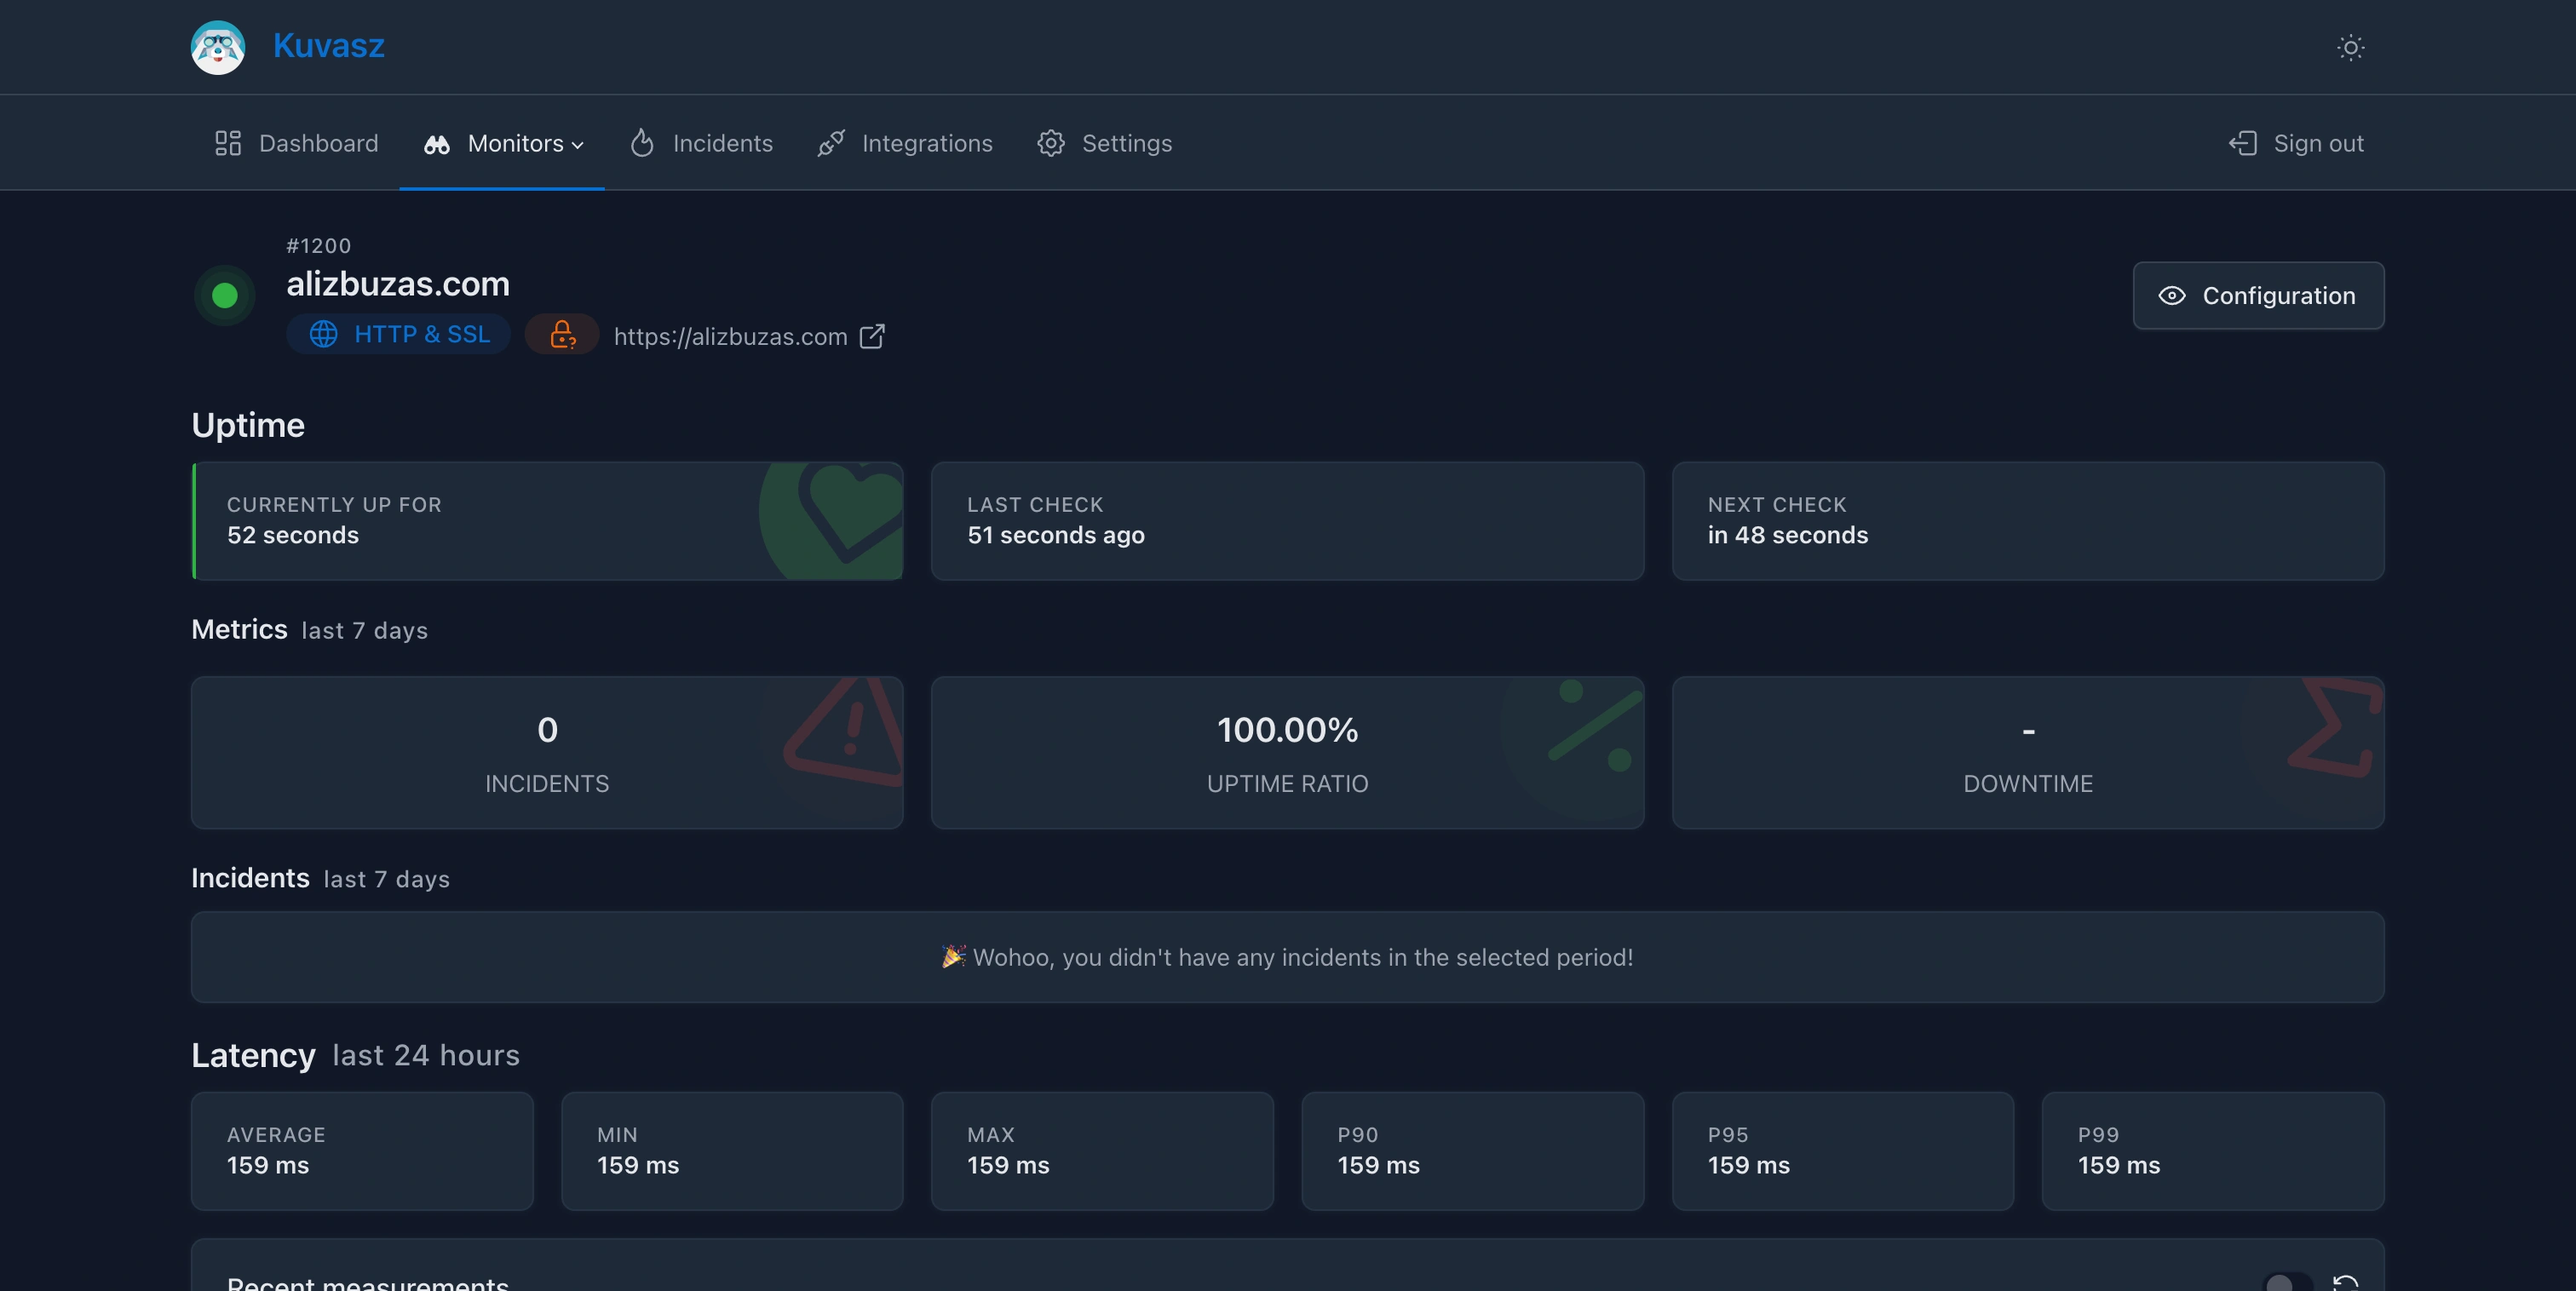
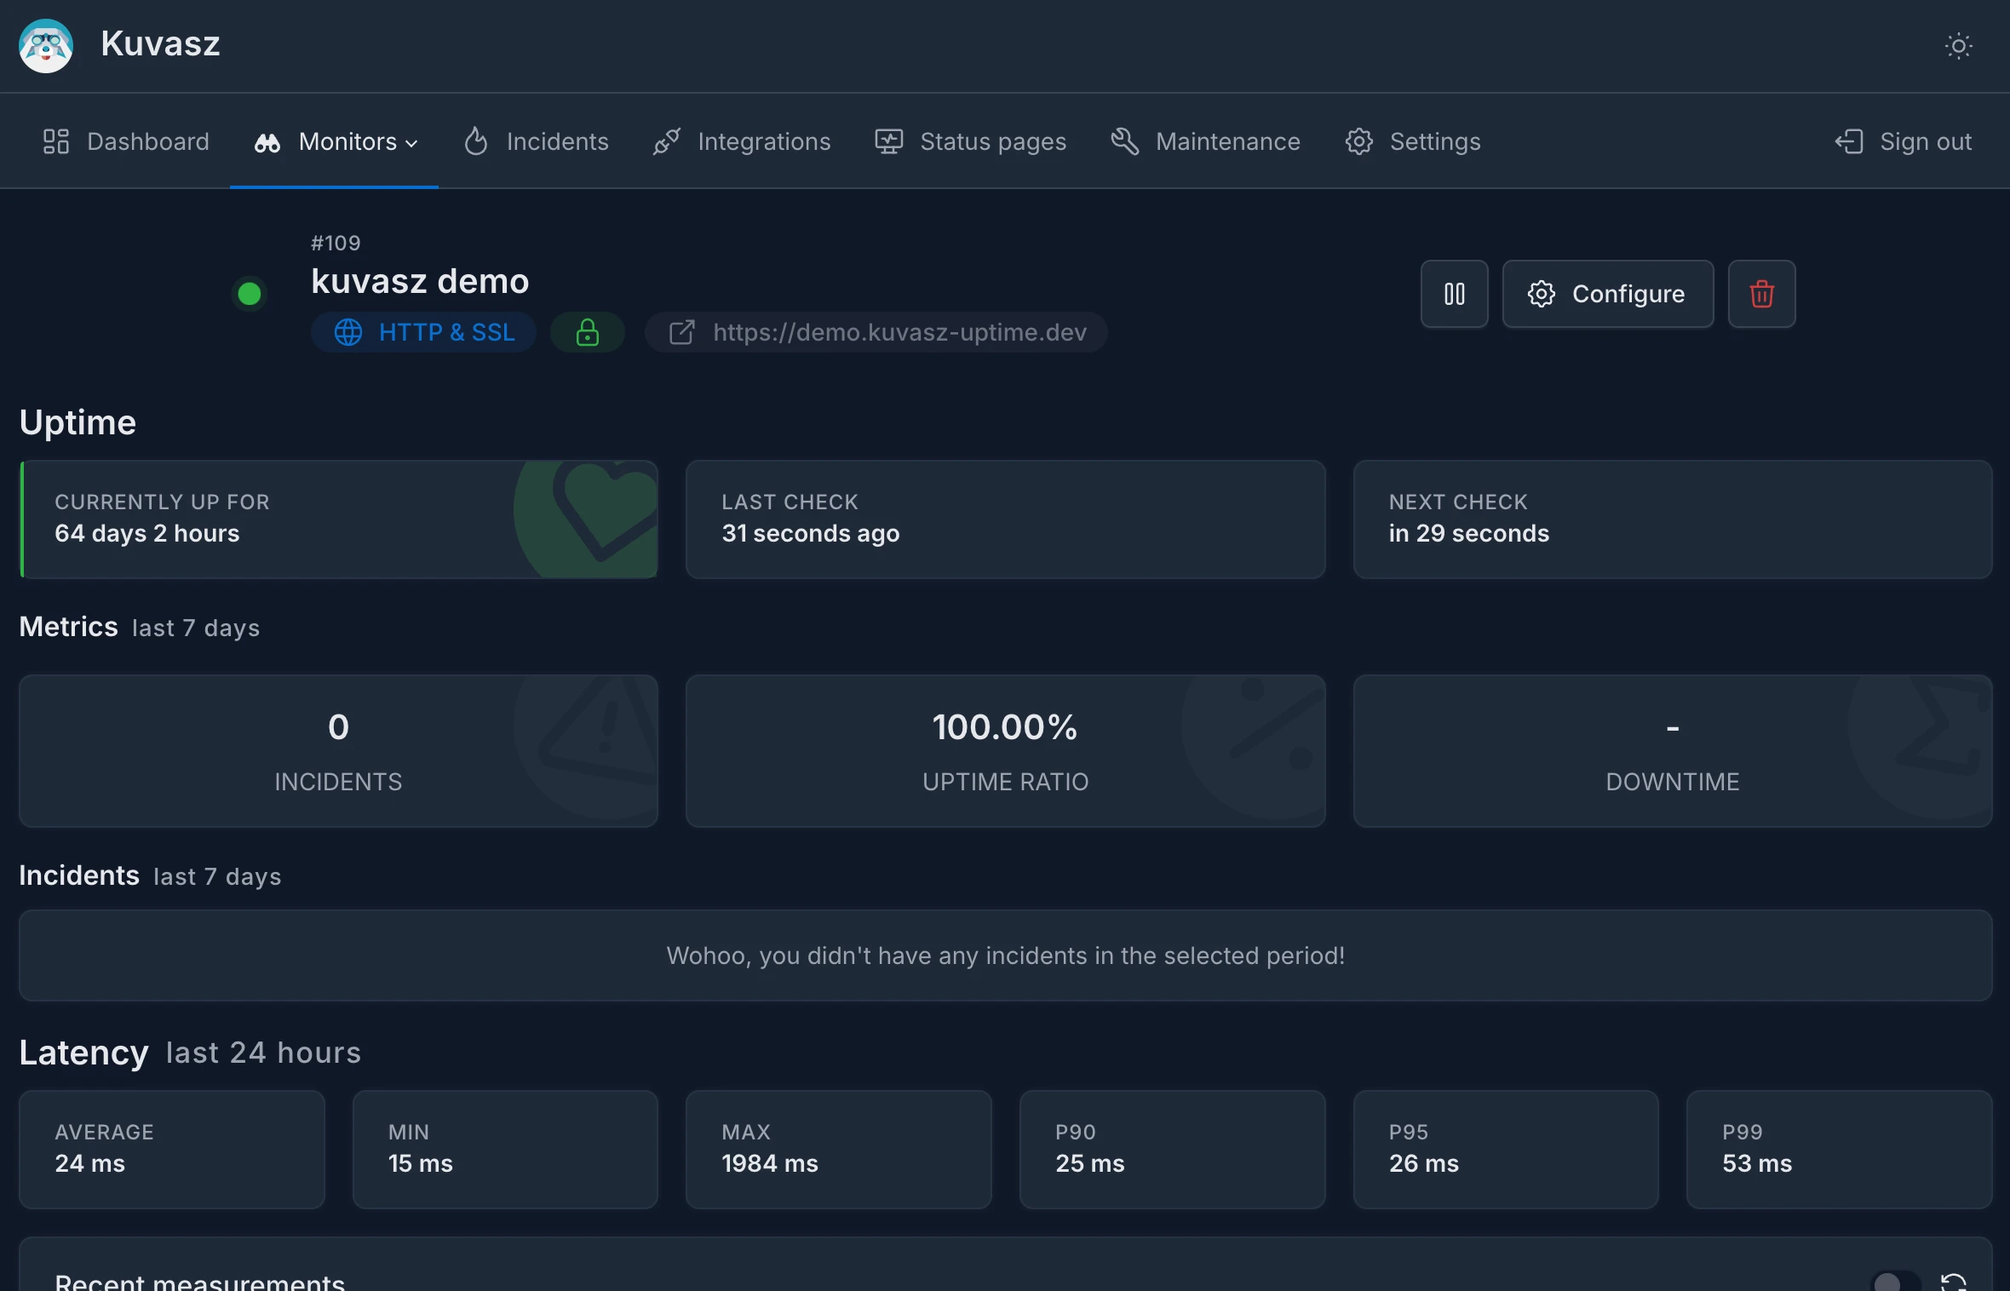
docs: refresh screenshots, and prepare the 4.2.0 release (#452)
* docs: update screenshots

* docs: add a screenshot to demonstrate DNS assertion capabilities

* docs: prepare 4.2.0 release

diff --git a/docs/docs/changelog.md b/docs/docs/changelog.md
@@ -1,26 +1,45 @@
 ## 4.2.0 <small>2026-08-xx</small> { id="4.2.0" data-toc-label="4.2.0" }
 
-### Features
-
-**TCP port monitoring** and **DNS monitoring** are here!
-
-- You can now create [**TCP monitors**](features/tcp-monitoring.md) that check whether a **TCP service is accepting connections** — a database, an SMTP or SSH server, a message broker, a game server, or any other `host:port` endpoint — by periodically opening a TCP connection to it. For each check _Kuvasz_ measures **reachability** and **connect latency**, and marks the monitor as DOWN (notifying you through your configured channels) if the connection can't be established within the configured **timeout** or, when set, exceeds the optional **latency threshold**.
-
-- [**DNS monitors**](features/dns-monitoring.md) arrived as well! They check whether a name resolves, and you can assert on the records it resolves to. A monitor holds a list of **record matchers** (`A`, `AAAA`, `CNAME`, `MX`, `NS`, `TXT`, `SOA`, `SRV`, `CAA`, `PTR`) matched as `EXACT`, `CONTAINS` or `REGEX`, can expect a specific **response code** (so _"this name must **not** resolve"_ checks work too), and can query a custom nameserver over `UDP` or `TCP`. On top of that, an opt-in **drift detection** notifies you when the resolved records change, without flipping the monitor to DOWN. See the [**Managing DNS monitors**](management/dns-monitors.md) section for further details.
-
-Both new types are fully integrated across _Kuvasz_: they're manageable via the [**Web UI, REST API, or YAML**](management/managing-monitors/index.md), participate in **incidents**, **uptime & latency stats**, **notifications** (including generic webhook templating), the **metrics** exporter, **YAML import/restore**, and are exposed to AI assistants through the [**MCP server**](features/mcp-server.md).
-
-### Fixes
-
-- **ICMP latest-latency metric**: the `icmp-latest-latency` exporter now also updates when a monitor goes DOWN due to **partial packet loss** while some replies still arrived, instead of freezing on the last successful check. The exported gauge now stays consistent with the recorded latency history in this degraded state.
-
-## 4.1.0 <small>2026-07-14</small> { id="4.1.0" data-toc-label="4.1.0" }
-
 !!! question "Make your voice heard!"
 
     There is a **short questionnaire about Kuvasz** in general, which you can fill out anonymously. It takes only a few minutes, and your feedback is highly appreciated as it helps me to focus on the most important features and improvements in the future. You can find it [**here**](https://forms.gle/Lb1q6CmW8eUgVbNr9){ target="_blank" }.
 
     _Thanks, Adam_
+
+### Features
+
+**TCP** and **DNS monitors** are here!
+
+- You can now create [**TCP monitors**](features/tcp-monitoring.md) that check whether a **TCP service is accepting connections** — a database, an SMTP or SSH server, a message broker, a game server, or any other `host:port` endpoint — by periodically opening a TCP connection to it. For each check _Kuvasz_ measures **reachability** and **connect latency**, and marks the monitor as DOWN (notifying you through your configured channels) if the connection can't be established within the configured **timeout** or, when set, exceeds the optional **latency threshold**.
+
+- [**DNS monitors**](features/dns-monitoring.md) arrived as well! They check whether a name resolves, and you can assert on the records it resolves to. A monitor holds a list of **record matchers** (`A`, `AAAA`, `CNAME`, `MX`, `NS`, `TXT`, `SOA`, `SRV`, `CAA`, `PTR`) matched as `EXACT`, `CONTAINS` or `REGEX`, can expect a specific **response code** (so _"this name must **not** resolve"_ checks work too), and can query a custom nameserver over `UDP` or `TCP`. On top of that, an opt-in **drift detection** notifies you when the resolved records change, without flipping the monitor to DOWN. See the [**Managing DNS monitors**](management/dns-monitors.md) section for further details.
+
+![DNS assertions](../images/features/dns_monitor_settings.webp)
+
+Both new types are fully integrated across _Kuvasz_: they're manageable via the [**Web UI, REST API, or YAML**](management/managing-monitors/index.md), participate in **incidents**, **uptime & latency stats**, **notifications** (including generic webhook templating), the **metrics** exporter, **YAML import/restore**, and are exposed to AI assistants through the [**MCP server**](features/mcp-server.md).
+
+### Enhancements
+
+- **The UI got a facelift**:
+    - the **dashboard** was cleaned up and its stat cards now use **conditional colors**, so a glance is enough to tell whether everything is fine. 
+    - the **columns of the monitor lists** were streamlined with consistent sizing.
+    - fixed the positioning of the **loading spinners** on the UI.
+
+- **Nicer empty states** everywhere: the dashboard, the monitor lists, the incidents, the integrations, the maintenance windows and the status pages all have a proper empty state now.
+- The **Settings page was revamped**: the read-only flags of your resources moved to their own **_"Editability"_** card, and the **SMTP** settings got a dedicated card as well, instead of being the only entry under the old integration settings.
+- **Faster status page details**: the uptime statistics of the status pages (and of the `GET /api/v2/status-pages/{statusPageId}/details` endpoint) are calculated with **batched queries** now, instead of querying the uptime events of every monitor one by one. The bigger your status page is, the more noticeable it is.
+
+### Fixes
+
+- **ICMP latest-latency metric**: the `icmp-latest-latency` exporter now also updates when a monitor goes DOWN due to **partial packet loss** while some replies still arrived, instead of freezing on the last successful check. The exported gauge now stays consistent with the recorded latency history in this degraded state.
+- **Case-insensitive sorting across the UI**: monitors, maintenance windows, status pages and integrations were sorted by their name in a case-sensitive way, which pushed every lowercase name after the uppercase ones. They are ordered **case-insensitively** from now on.
+
+### Docs
+
+- **Documented the SMTP related environment variables** (`SMTP_CONFIG_HOST`, `SMTP_CONFIG_PORT`, and the rest): the [**SMTP configuration**](setup/configuration.md#smtp) doesn't have to be provided via YAML, it can be set through environment variables as well.
+- Added a new recipe about [**keeping secrets out of your configuration file**](management/examples.md#keeping-secrets-out-of-your-configuration-file), covering both the `${VARIABLE_NAME}` placeholders (with default values) inside the YAML, and splitting your configuration into multiple files via `MICRONAUT_CONFIG_FILES`, so your secrets can come from a _Docker_ secret.
+
+## 4.1.0 <small>2026-07-14</small> { id="4.1.0" data-toc-label="4.1.0" }
 
 ### Features
 

diff --git a/docs/docs/features/dns-monitoring.md b/docs/docs/features/dns-monitoring.md
@@ -23,6 +23,8 @@ Instead of a single expected value, a DNS monitor holds a **list of record match
 
 This model covers the everyday cases without any extra configuration: `CONTAINS` is enough for an SPF or DKIM fragment inside a long `TXT` record, two `EXACT` matchers express *"both of these IPs must be present"*, and [`REGEX`](../management/dns-monitors.md#regex-patterns) - using the **Java / Kotlin regular expression syntax** - handles everything else.
 
+![DNS assertions](../images/features/dns_monitor_settings.webp)
+
 ### Drift detection
 
 Beyond up/down, _Kuvasz_ can tell you when the **resolved records change** - a hijacked delegation, an accidental `NS` switch during a migration, or an `MX` record someone edited without telling you.
